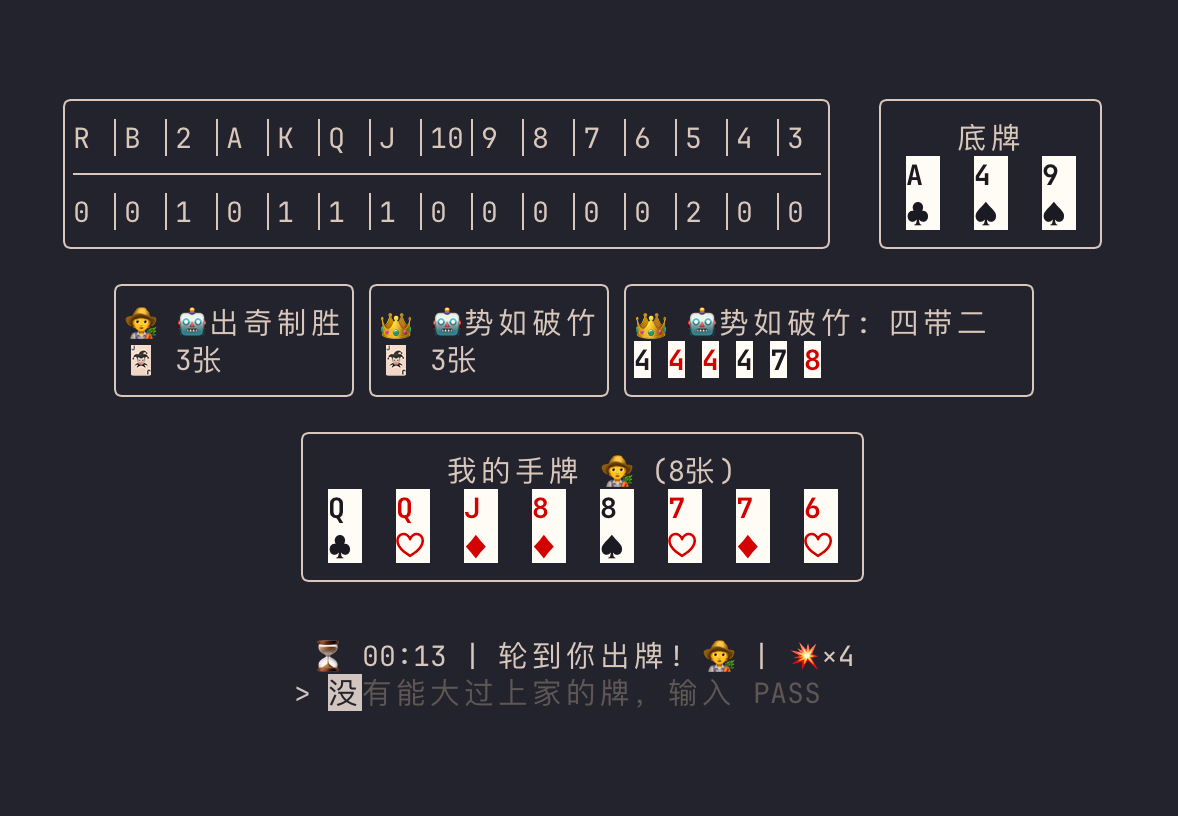
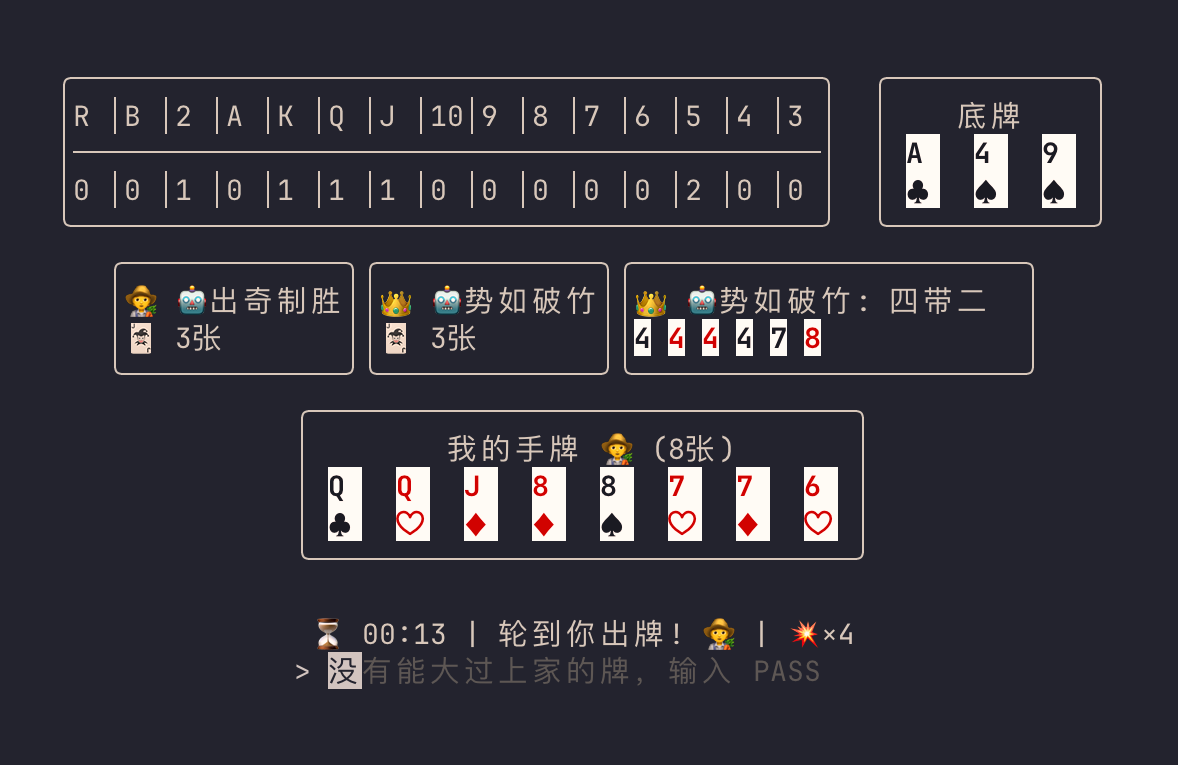
docs: update game documentation image and README content

Changed region(s): [[0.0611, 0.1203, 0.9168, 0.451], [0.0917, 0.481, 0.8862, 0.7516], [0.2445, 0.7817, 0.7334, 0.902]]

diff --git a/README.md b/README.md
@@ -47,21 +47,21 @@
 
 ## ✨ 功能特性
 
-| 功能         | 说明                                                                        |
-| ------------ | --------------------------------------------------------------------------- |
-| 🎯 实时对战  | WebSocket 实时通信，支持大规模并发对战（每局 3 人）                         |
-| 🏠 房间系统  | 创建房间、加入房间、快速匹配                                                |
-| 🤖 AI 机器人 | 凑人不足时自动填充空位；内置规则启发式机器人，可选接入 DouZero 神经网络引擎 |
-| 🔄 断线重连  | 网络波动时自动重连，游戏状态完整恢复                                        |
-| ⏸️ 离线等待  | 对手掉线时暂停计时，等待重连                                                |
-| 🏆 排行榜    | 积分系统、胜率统计、实时排名                                                |
-| 📲 聊天系统  | 支持大厅聊天、房间快捷消息，互动更便捷                                      |
-| 🔒 安全防护  | 来源验证、速率限制、IP 过滤                                                 |
-| 🐳 容器部署  | Docker Compose 一键部署                                                     |
-| 🔄 优雅升级  | 维护模式 + 零停机发版，等待游戏结束后自动关闭                               |
-| ⚡ 流量优化  | Protocol Buffers ~~+WebSocket~~ 压缩，节省 60-80% 流量                      |
-| 🚀 性能优化  | `sync.Pool` 对象池复用，降低 GC 压力，提升并发性能                          |
-| 📝 日志记录  | 文件记录日志，便于调试和问题追踪                                            |
+| 功能         | 说明                                                                 |
+| ------------ | -------------------------------------------------------------------- |
+| 🎯 实时对战  | WebSocket 实时通信，支持大规模并发对战（每局 3 人）                  |
+| 🏠 房间系统  | 创建房间、加入房间、快速匹配                                         |
+| 🤖 AI 机器人 | 凑人不足时DouZero 神经网络引擎自动填充空位；内置规则启发式机器人兜底 |
+| 🔄 断线重连  | 网络波动时自动重连，游戏状态完整恢复                                 |
+| ⏸️ 离线等待  | 对手掉线时暂停计时，等待重连                                         |
+| 🏆 排行榜    | 积分系统、胜率统计、实时排名                                         |
+| 📲 聊天系统  | 支持大厅聊天、房间快捷消息，互动更便捷                               |
+| 🔒 安全防护  | 来源验证、速率限制、IP 过滤                                          |
+| 🐳 容器部署  | Docker Compose 一键部署，Docker Hardened Images (DHI) 基础镜像加固   |
+| 🔄 优雅升级  | 维护模式 + 零停机发版，等待游戏结束后自动关闭                        |
+| ⚡ 流量优化  | Protocol Buffers ~~+WebSocket~~ 压缩，节省 60-80% 流量               |
+| 🚀 性能优化  | `sync.Pool` 对象池复用，降低 GC 压力，提升并发性能                   |
+| 📝 日志记录  | 文件记录日志，便于调试和问题追踪                                     |
 
 ## 🚀 快速开始
 
@@ -122,55 +122,9 @@ go run ./cmd/server
 go run ./cmd/client
 ```
 
-## 配置说明
+## 🎲 游戏规则
 
-### 配置文件职责
-
-| 文件           | 用途                     | 适用场景                   | 是否提交 Git |
-| -------------- | ------------------------ | -------------------------- | ------------ |
-| `config.yaml`  | 默认配置，包含所有配置项 | 本地开发 + Docker 基础配置 | ✅ 提交      |
-| `.env`         | 环境特定配置，覆盖 YAML  | Docker 部署                | ❌ 不提交    |
-| `.env.example` | 环境变量模板             | 参考和复制                 | ✅ 提交      |
-
-### 配置加载优先级
-
-```
-环境变量 (.env) > config.yaml > 代码默认值
-```
-
-**说明**：后加载的配置会覆盖先加载的配置
-
-### 不同场景的配置加载
-
-### 配置加载对比
-
-| 对比项               | 本地开发（`go run`）            | Docker 部署             |
-| -------------------- | ------------------------------- | ----------------------- |
-| **启动命令**         | `go run ./cmd/server`           | `docker compose up -d`  |
-| **读取 .env**        | ❌ 不读取                       | ✅ 读取并传递给容器     |
-| **读取 config.yaml** | ✅ 读取                         | ✅ 读取                 |
-| **环境变量覆盖**     | ✅ 支持（需手动设置）           | ✅ 支持（来自 .env）    |
-| **Redis 地址**       | `localhost:6379`                | `redis:6379`            |
-| **配置来源**         | config.yaml + 手动环境变量      | config.yaml + .env 覆盖 |
-| **修改配置**         | 修改 config.yaml 或设置环境变量 | 修改 .env 后重启容器    |
-
-**配置加载流程**：
-
-```
-本地开发：config.yaml → 代码默认值 → 环境变量（手动设置）
-Docker： config.yaml → 代码默认值 → .env（自动传递）
-```
-
-## 🎲 游戏玩法
-
-### 游戏操作
-
-| 阶段   | 操作                                       |
-| ------ | ------------------------------------------ |
-| 叫地主 | 输入 `Y` 叫地主，`N` 不叫                  |
-| 抢地主 | 有人叫地主后，输入 `Y` 抢 / 反抢，`N` 不抢 |
-| 出牌   | 输入牌面，如 `33344`、`345678`、`JQK`      |
-| 不出   | 输入 `PASS` 或 `P`                         |
+与常见的斗地主相同，开局叫地主后，两位农民需配合击败地主，地主则需要阻击两个农民，率先出完手牌的一方获胜。
 
 ### 牌型示例
 
@@ -182,7 +136,7 @@ Docker： config.yaml → 代码默认值 → .env（自动传递）
 三带二: 33344
 顺子: 34567 (5张+)
 连对: 334455 (3对+)
-飞机: 333444 (2连三+)
+飞机: 333444 (两个连三+)
 飞机带单: 33344456
 飞机带对: 3334445566
 四带二: 333345
@@ -200,7 +154,7 @@ Docker： config.yaml → 代码默认值 → .env（自动传递）
 3. 连续两人放弃后，最后抢到的人成为地主，叫抢累计的倍数即为底倍
 4. 一圈无人叫则流局重新发牌；连续 3 次流局后随机强制指定地主，避免无限流局
 
-**倍数来源**，最终倍数 = 底倍 ×各项翻倍：
+**倍数来源**，最终倍数 = 底倍 × 各项翻倍：
 
 | 来源        | 翻倍                            |
 | ----------- | ------------------------------- |
@@ -210,167 +164,6 @@ Docker： config.yaml → 代码默认值 → .env（自动传递）
 | 反春天      | 农民获胜且地主仅首攻出过一手 ×2 |
 
 **本局结算**（地主独自对抗两名农民，与排行榜积分相互独立）：地主获胜得 `+2 ×倍数`、两农民各 `-倍数`；农民获胜则地主 `-2 ×倍数`、两农民各 `+倍数`。
-
-## 🏗️ 架构与流程
-
-### 系统架构
-
-```mermaid
-graph TD
-    subgraph Clients [客户端]
-        C1[TUI Client 1]
-        C2[TUI Client 2]
-        C3[TUI Client 3]
-    end
-
-    subgraph Server [服务层]
-        WH[WebSocket Handler]
-        GM[Game Session]
-        RM[Room Manager]
-        MM[Match Maker]
-        LB[Leaderboard]
-    end
-
-    subgraph Storage [存储]
-        Redis[(Redis)]
-    end
-
-    C1 <--> WH
-    C2 <--> WH
-    C3 <--> WH
-
-    WH --> RM
-    WH --> GM
-    WH --> MM
-    WH --> LB
-
-    RM --> Redis
-    MM --> Redis
-    LB --> Redis
-```
-
-### 游戏状态
-
-```mermaid
-stateDiagram-v2
-    [*] --> Waiting : 创建/加入房间
-    Waiting --> Ready : 3人齐且全部准备
-    Ready --> Bidding : 发牌完成
-    Bidding --> Bidding : 无人叫地主(流局重发)
-    Bidding --> Playing : 叫抢结束，地主确定
-    Playing --> GameOver : 有人出完牌（结算倍数）
-    GameOver --> [*] : 解散
-    GameOver --> Waiting : 再来一局
-```
-
-### 客户端流程
-
-```mermaid
-graph LR
-    Start(启动):::setup
-    Connect(连接服务器):::setup
-    Lobby(大厅界面):::setup
-
-    UserSelect{用户选择}:::decision
-
-    Input(输入房间号):::process
-    Matching(匹配中...):::process
-
-    Waiting(等待界面):::process
-    GameScreen(游戏界面):::game
-
-    GameOver{游戏结束}:::decision
-
-    %% --- 连接流程 ---
-    %% 启动流程
-    Start --> Connect --> Lobby --> UserSelect
-
-    %% 分支流程
-    UserSelect -- 创建房间 --> Waiting
-    UserSelect -- 加入房间 --> Input --> Waiting
-    UserSelect -- 快速匹配 --> Matching --> Waiting
-
-    %% 游戏流程
-    Waiting --> GameScreen --> GameOver
-
-    %% 循环/返回流程
-    GameOver -- 再来一局 --> Waiting
-    GameOver -- 返回大厅 --> Lobby
-```
-
-## 🏆 积分规则
-
-| 结果        | 积分 |
-| ----------- | ---- |
-| 地主胜利    | +30  |
-| 农民胜利    | +15  |
-| 地主失败    | -20  |
-| 农民失败    | -10  |
-| 3 连胜加成  | +5   |
-| 5 连胜加成  | +10  |
-| 10 连胜加成 | +20  |
-
-## 🔐 公平性保证
-
-### 真随机发牌
-
-本项目使用标准的 Fisher-Yates 洗牌算法，确保每局牌面完全随机。
-
-**发牌流程**：
-
-1. 创建 54 张牌的标准牌组
-2. 使用 Fisher-Yates 洗牌算法打乱顺序
-3. 按顺序发牌：每位玩家 17 张，剩余 3 张作为底牌
-4. **无任何基于玩家数据的牌面调整**
-
-**代码位置**：`internal/game/card/card.go`
-
-```go
-// 洗牌实现
-func (d Deck) Shuffle() {
-    rand.Shuffle(len(d), func(i, j int) {
-        d[i], d[j] = d[j], d[i]
-    })
-}
-```
-
-### 公平匹配
-
-**快速匹配**：
-
-- 使用 Redis 队列实现先进先出（FIFO）匹配
-- 不考虑玩家的胜率、段位、游戏时长、账户余额等任何因素
-- 仅按照进入队列的时间顺序进行匹配
-
-**房间匹配**：
-
-- 玩家可自由创建或加入房间
-- 完全由玩家控制，服务器不干预
-
-**代码位置**：`internal/game/match/matcher.go`
-
-### 开源审计
-
-所有核心逻辑代码完全开源，欢迎社区审计：
-
-- 发牌算法：`internal/game/card/card.go`
-- 匹配逻辑：`internal/game/match/matcher.go`
-- 游戏规则：`internal/game/rule/rule.go`
-
-如果你发现任何可能影响公平性的代码，欢迎提交 Issue 或 Pull Request。
-
-## Todo
-
-- [ ] 使用 **GarageBand (库乐队)** 或其他音乐制作工具为游戏添加背景音乐和音效
-- [ ] 等待 Docker Hardened Images 取消拉取验证和支持 debug 后，升级到 DHI
-- [ ] 进一步增强规则机器人的出牌策略（已集成 DouZero 神经网络引擎作为可选强力对手）
-
-## 鸣谢
-
-- [Bubble Tea](https://github.com/charmbracelet/bubbletea) 提供 TUI 框架
-- [Google Cloud Compute Engine](https://cloud.google.com/compute) 提供计算资源
-- [Cloudflare](https://www.cloudflare.com/) 提供 CDN 服务
-- [Flaticon](https://www.flaticon.com/) 提供游戏图标
 
 ## 🤝 贡献
 